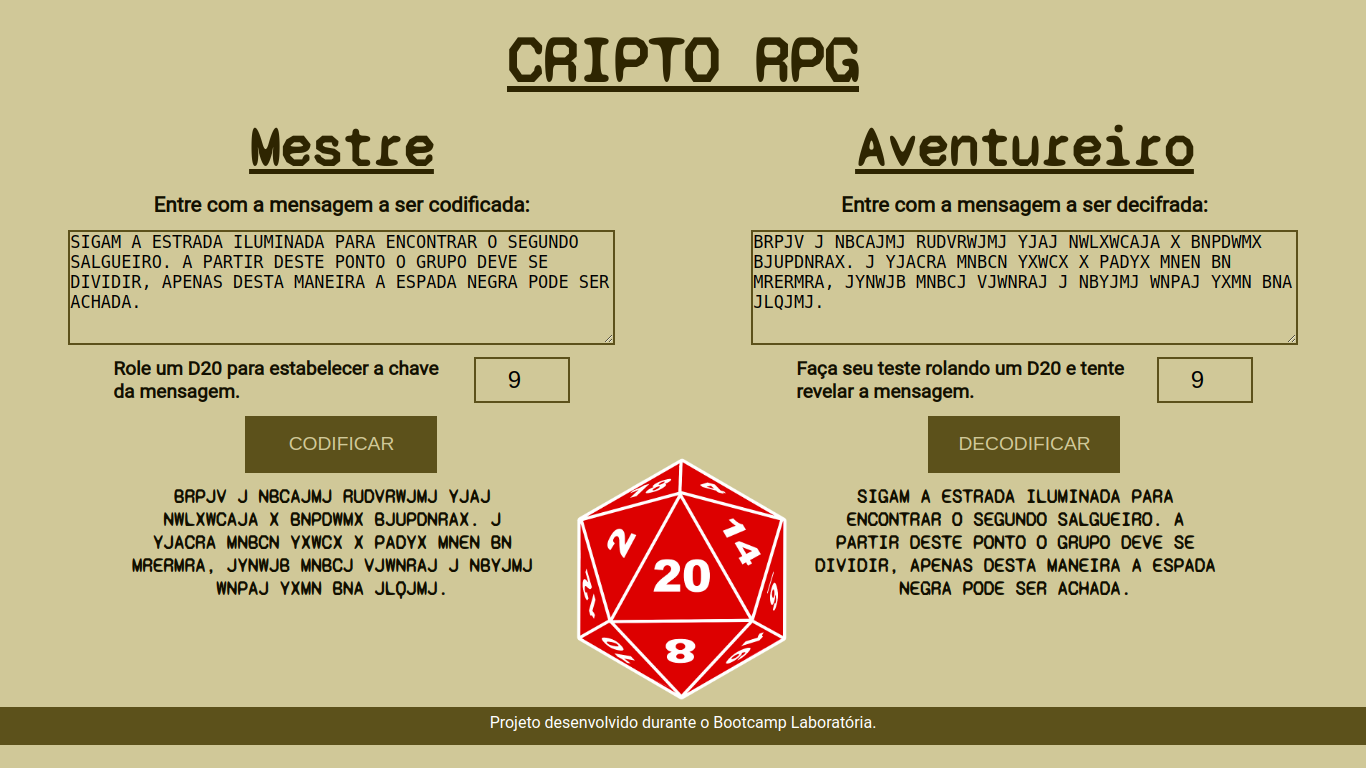
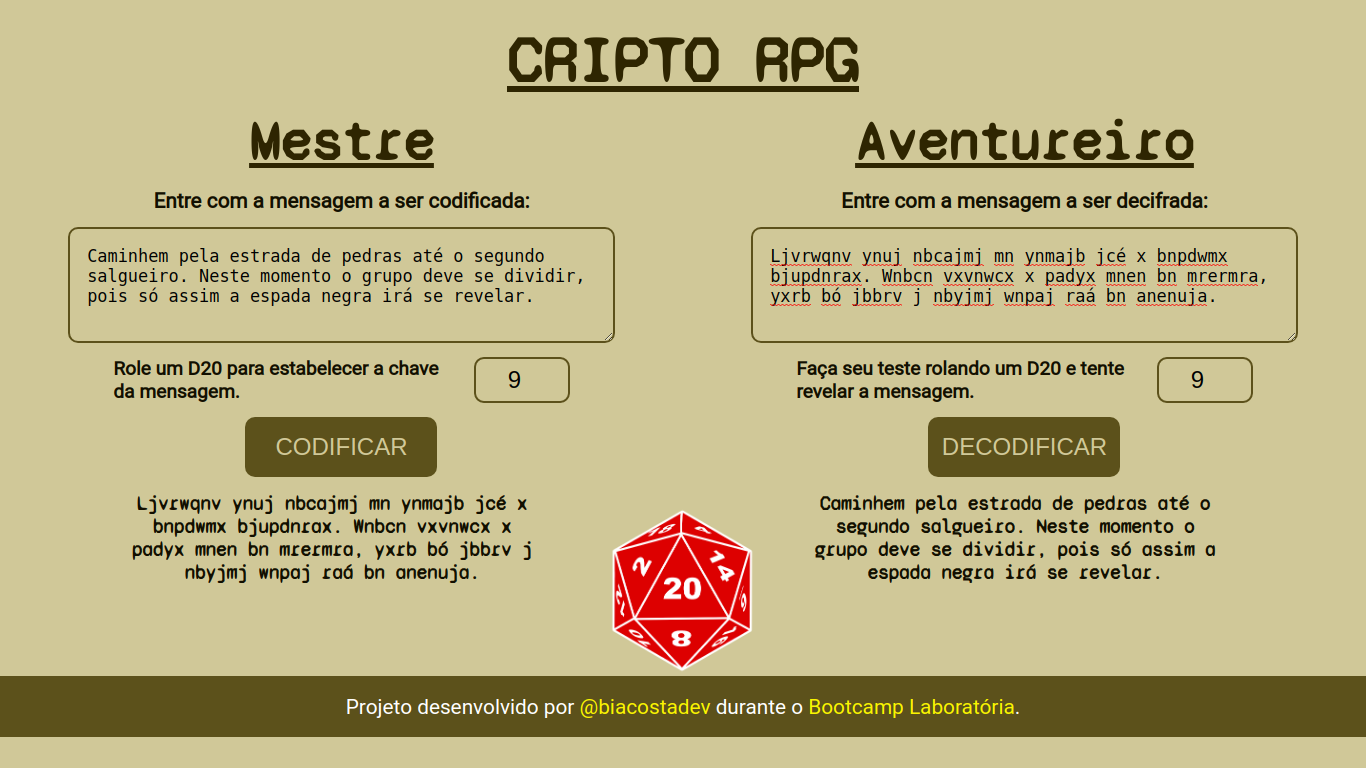
Modificações de estrutura

diff --git a/src/cipher.js b/src/cipher.js
@@ -1,34 +1,62 @@
+const alfabetoMaiusculo = 65;
+const alfabetoMinusculo = 97;
+const tamanhoAlfabeto = 26;
+
 const cipher = {
   encode(offset, mensagem) {
+    let letrasCifradas;
     let palavraCifrada = "";
-    if (offset == null || !mensagem){
-      throw new TypeError("Erro!");
-      }else{
-        for (let i = 0; i < mensagem.length; i++) {
-          const cifrar = mensagem.charCodeAt(i);
-          let codificado = ((cifrar - 65 + offset) % 26) + 65;
-          if (cifrar <= 64 || cifrar >= 91) {
-            codificado = cifrar;
-          } palavraCifrada += String.fromCharCode(codificado);
-        }
-      return palavraCifrada;
-    }
-  },
 
-  decode(offsetDec, mensagemDec) {
-    let palavraDecifrada = "";
-    if (offsetDec == null || !mensagemDec) {
-      throw new TypeError("Erro!");
-      } else {
-        for (let i = 0; i < mensagemDec.length; i++) {
-          const decifrar = mensagemDec.charCodeAt(i);
-          let decodificado = ((decifrar - 65 -(offsetDec % 26) + 26) % 26) + 65;
-          if (decifrar <= 64 || decifrar >= 91) {
-            decodificado = decifrar;
-          } palavraDecifrada += String.fromCharCode(decodificado);
+    if (offset == null || !mensagem) throw new TypeError("Por favor, verifique sua mensagem ou sua chave de criptografia!");
+
+    for (let i = 0; i < mensagem.length; i++) {
+      const cifrar = mensagem.charCodeAt(i);
+      if (cifrar >= 65 && cifrar <= 90) {
+        if (offset > 0) {
+          letrasCifradas = ((cifrar - alfabetoMaiusculo) + offset) % tamanhoAlfabeto + alfabetoMaiusculo;
+        } else {
+          letrasCifradas = ((cifrar - alfabetoMaiusculo) + (tamanhoAlfabeto + offset % tamanhoAlfabeto)) % tamanhoAlfabeto + alfabetoMaiusculo;
         }
-        return palavraDecifrada;
+      } else if (cifrar >= 97 && cifrar <= 122) {
+        if (offset > 0) {
+          letrasCifradas = ((cifrar - alfabetoMinusculo) + offset) % tamanhoAlfabeto + alfabetoMinusculo;
+        } else {
+          letrasCifradas = ((cifrar - alfabetoMinusculo) + (tamanhoAlfabeto + offset % tamanhoAlfabeto)) % tamanhoAlfabeto + alfabetoMinusculo;
+        }
+      } else {
+        letrasCifradas = cifrar;
+      }
+      palavraCifrada += String.fromCharCode(letrasCifradas);
     }
+    return palavraCifrada;
+  },
+  decode(offsetDec, mensagemDec) {
+    let letrasDecifradas;
+    let palavraDecifrada = "";
+    let offsetNegativo = offsetDec % tamanhoAlfabeto;
+
+    if (offsetDec == null || !mensagemDec) throw new TypeError("Por favor, verifique sua mensagem ou sua chave de criptografia!");
+
+    for (let i = 0; i < mensagemDec.length; i++) {
+      let decifrar = mensagemDec.charCodeAt(i);
+      if (decifrar >= 65 && decifrar <= 90) {
+        if (offsetNegativo > 0) {
+          letrasDecifradas = ((decifrar + alfabetoMaiusculo) - offsetNegativo) % tamanhoAlfabeto + alfabetoMaiusculo;
+        } else {
+          letrasDecifradas = ((decifrar + alfabetoMaiusculo) - (tamanhoAlfabeto + offsetNegativo % tamanhoAlfabeto)) % tamanhoAlfabeto + alfabetoMaiusculo;
+        }
+      } else if (decifrar >= 97 && decifrar <= 122) {
+        if (offsetNegativo > 0) {
+          letrasDecifradas = ((decifrar + alfabetoMinusculo) - offsetNegativo - 12) % tamanhoAlfabeto + alfabetoMinusculo;
+        } else {
+          letrasDecifradas = ((decifrar + alfabetoMinusculo) - (tamanhoAlfabeto + offsetNegativo % tamanhoAlfabeto) - 12) % tamanhoAlfabeto + alfabetoMinusculo;
+        }
+      } else {
+        letrasDecifradas = decifrar;
+      }
+      palavraDecifrada += String.fromCharCode(letrasDecifradas)
+    }
+    return palavraDecifrada;
   }
 };
 

diff --git a/test/cipher.spec.js b/test/cipher.spec.js
@@ -30,16 +30,16 @@ describe('cipher', () => {
     // Se quiser adicionar testes para letras minúsculas, descomente o teste
     // abaixo.
     //
-    // it('should return "hijklmnopqrstuvwxyzabcdefg" for "abcdefghijklmnopqrstuvwxyz" with offset 33', () => {
-    //   expect(cipher.encode(33, 'abcdefghijklmnopqrstuvwxyz')).toBe('hijklmnopqrstuvwxyzabcdefg');
-    // });
+    it('should return "hijklmnopqrstuvwxyzabcdefg" for "abcdefghijklmnopqrstuvwxyz" with offset 33', () => {
+      expect(cipher.encode(33, 'abcdefghijklmnopqrstuvwxyz')).toBe('hijklmnopqrstuvwxyzabcdefg');
+    });
 
     // Se quiser adicionar testes para caracteres não alfabéticos, descomente o
     // teste abaixo.
     //
     it('should return " !@" for " !@"', () => {
-       expect(cipher.encode(33, ' !@')).toBe(' !@');
-     });
+      expect(cipher.encode(33, ' !@')).toBe(' !@');
+    });
   });
 
   describe('cipher.decode', () => {
@@ -60,13 +60,13 @@ describe('cipher', () => {
     });
 
     // Hacker edition
-    
+
     // Se quiser adicionar testes para letras minúsculas, descomente o teste
     // abaixo.
     //
-    // it('should return "abcdefghijklmnopqrstuvwxyz" for "hijklmnopqrstuvwxyzabcdefg" with offset 33', () => {
-    //   expect(cipher.decode(33, 'hijklmnopqrstuvwxyzabcdefg')).toBe('abcdefghijklmnopqrstuvwxyz');
-    // });
+    it('should return "abcdefghijklmnopqrstuvwxyz" for "hijklmnopqrstuvwxyzabcdefg" with offset 33', () => {
+      expect(cipher.decode(33, 'hijklmnopqrstuvwxyzabcdefg')).toBe('abcdefghijklmnopqrstuvwxyz');
+    });
 
     // Se quiser adicionar testes para caracteres não alfabéticos, descomente o
     // teste abaixo.

diff --git a/src/style.css b/src/style.css
@@ -22,7 +22,7 @@ h1 {
 main {
     display: flex;
     justify-content: space-around;
-    height: 79vh;
+    height: 75vh;
     padding-top: 1vh;
     background-image: url("img/d20.png");
     background-repeat: no-repeat;
@@ -34,7 +34,7 @@ main {
 .decodificador {
     display: flex;
     flex-direction: column;
-    justify-content: space-around;
+    justify-content: space-between;
     align-items: center;
     width: 40vw;
     height: 70vh;
@@ -50,7 +50,8 @@ h2 {
 }
 
 .textarea {
-    text-transform: uppercase;
+    border-radius: 10px;
+    padding: 1em;
     height: 15vh;
     width: 40vw;
     font-size: 1.3em;
@@ -71,6 +72,7 @@ h3 {
 }
 
 input {
+    border-radius: 10px;
     font-size: 1.5em;
     text-align: center;
     width: 4em;
@@ -79,14 +81,16 @@ input {
 }
 
 button {
-    height: 3em;
-    width: 10em;
-    font-size: 1.2em;
+    height: 2.5em;
+    width: 8em;
+    font-size: 1.5em;
     cursor: pointer;
     background-color: #5c4d21;
     color: #d1c39b;
     border: none;
+    border-radius: 10px;
     text-transform: uppercase;
+    transition: background-color 500ms;
 }
 
 button:hover {
@@ -105,6 +109,17 @@ button:hover {
 footer {
     background-color: #5c4d21;
     color: #ffffff;
-    line-height: 2em;
-    height: 5vh;
+    font-size: 1.3em;
+    line-height: 2.3em;
+    height: 8vh;
+}
+
+a {
+    text-decoration: none;
+    color: #ffe521;
+    transition: color 500ms;
+}
+
+a:hover {
+    color: #d1c39b;
 }

diff --git a/src/index.js b/src/index.js
@@ -3,8 +3,6 @@ import cipher from './cipher.js';
 const buttonCodificar = document.getElementById("codificar");
 buttonCodificar.addEventListener("click", codificar);
 function codificar() {
-    const maiuscula = document.getElementById("textCode");
-    maiuscula.value = maiuscula.value.toUpperCase();
     const mensagem = document.getElementById("textCode").value;
     const offset = Number(document.getElementById("offsetCode").value);
     const mensagemCodificada = cipher.encode(offset, mensagem);
@@ -14,8 +12,6 @@ function codificar() {
 const buttonDecodificar = document.getElementById("decodificar");
 buttonDecodificar.addEventListener("click", decodificar);
 function decodificar() {
-    const maiuscula = document.getElementById("textDecode");
-    maiuscula.value = maiuscula.value.toUpperCase();
     const mensagemDec = document.getElementById("textDecode").value;
     const offsetDec = Number(document.getElementById("offsetDecode").value);
     const mensagemDecodificada = cipher.decode(offsetDec, mensagemDec);

diff --git a/src/index.html b/src/index.html
@@ -42,7 +42,7 @@
         </div>
     </main>
     <footer>
-        <p>Projeto desenvolvido durante o Bootcamp Laboratória.</p>
+        <p>Projeto desenvolvido por <a href="http://github.com/biacostadev">@biacostadev</a>  durante o <a href="http://www.laboratoria.la/br">Bootcamp Laboratória</a>.</p>
     </footer>  
     <script src="index.js" type="module"></script>
 </body>
